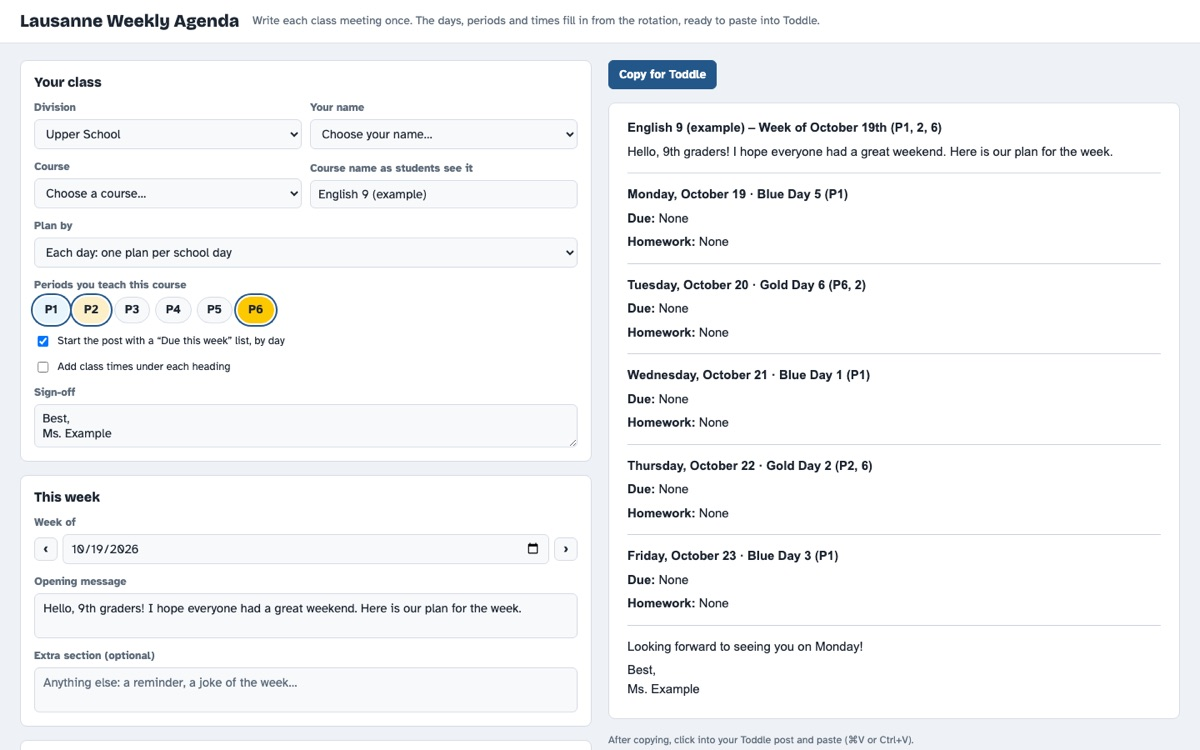
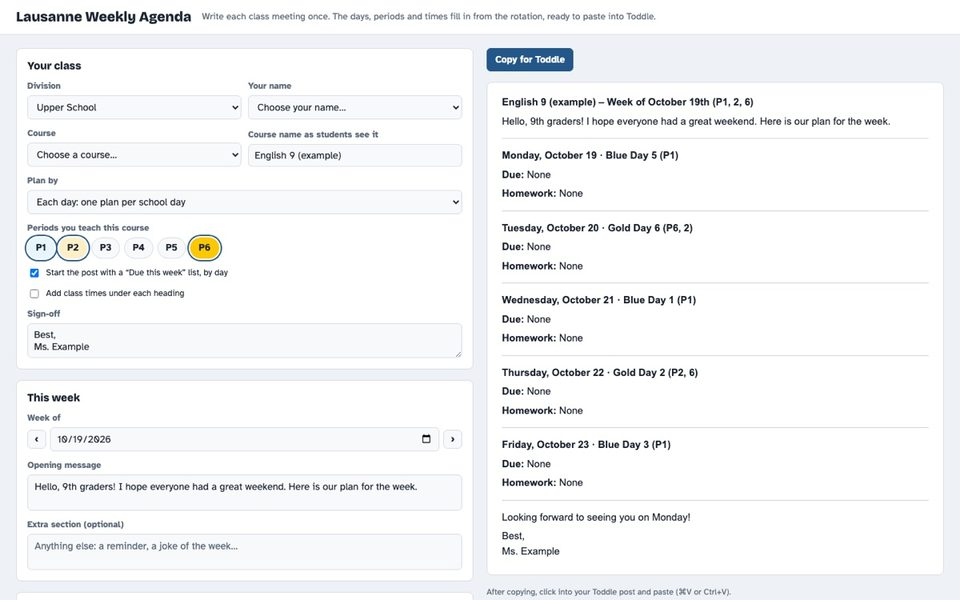
Add ideas section and make all preview images 960x600

diff --git a/index.html b/index.html
@@ -23,6 +23,68 @@
   </header>
 
   <main class="wrap">
+    <section class="ideas" aria-labelledby="ideas-heading">
+      <h2 id="ideas-heading">What you could make with Claude</h2>
+      <p class="ideas-intro">Claude can build printable pages, interactive sites and small tools from a plain description of what you need. A few places to start:</p>
+      <ul class="idea-grid">
+        <li class="idea">
+          <h3>Class resources</h3>
+          <ul>
+            <li>Worksheets and practice sets for this week's skill</li>
+            <li>Vocabulary cards, word walls and sorting activities</li>
+            <li>Reading passages on your topic at your students' level</li>
+            <li>Review games and exit tickets</li>
+          </ul>
+        </li>
+        <li class="idea">
+          <h3>Custom resources</h3>
+          <ul>
+            <li>The same lesson at two or three reading levels</li>
+            <li>Visual schedules, checklists and step-by-step cards</li>
+            <li>Choice boards and extension work for early finishers</li>
+            <li>Name-based or student-made pages like the name sheets below</li>
+          </ul>
+        </li>
+        <li class="idea">
+          <h3>Teacher tools</h3>
+          <ul>
+            <li>Calendars and planners that follow the Lausanne rotation</li>
+            <li>Rubric builders and grade conversion charts</li>
+            <li>Random group, partner and seating chart makers</li>
+            <li>Pages that turn an export into something you can print</li>
+          </ul>
+        </li>
+        <li class="idea">
+          <h3>Student sites and activities</h3>
+          <ul>
+            <li>Interactive practice with instant feedback</li>
+            <li>Simulations, like the pretend grocery store below</li>
+            <li>Research libraries with safe, readable sources</li>
+            <li>Step-by-step lab or project guides</li>
+          </ul>
+        </li>
+        <li class="idea">
+          <h3>Family communication</h3>
+          <ul>
+            <li>How-to handouts with numbered steps and screenshots</li>
+            <li>Newsletter and weekly update templates</li>
+            <li>Welcome packets and supply lists</li>
+            <li>Event and conference schedules</li>
+          </ul>
+        </li>
+        <li class="idea">
+          <h3>Clubs, teams and events</h3>
+          <ul>
+            <li>Season and practice plans</li>
+            <li>Slide decks with speaker notes</li>
+            <li>Sign-up sheets and rosters</li>
+            <li>Field trip and event checklists</li>
+          </ul>
+        </li>
+      </ul>
+    </section>
+
+    <h2 class="examples-heading">Built for Lausanne classrooms</h2>
     <ul id="cards" class="card-grid" aria-live="polite"></ul>
     <p id="load-error" class="load-error" hidden>The resource list could not be loaded. Please refresh the page.</p>
 

diff --git a/styles.css b/styles.css
@@ -98,10 +98,59 @@ h1 {
   background: var(--gold);
 }
 
+/* Ideas */
+.ideas { margin-top: 36px; }
+
+.ideas h2,
+.examples-heading {
+  margin: 0 0 8px;
+  font-size: 1.7rem;
+}
+
+.ideas-intro {
+  margin: 0 0 20px;
+  max-width: 62ch;
+  color: var(--muted);
+}
+
+.idea-grid {
+  list-style: none;
+  margin: 0;
+  padding: 0;
+  display: grid;
+  grid-template-columns: repeat(3, minmax(0, 1fr));
+  gap: 16px;
+}
+
+.idea {
+  padding: 16px 18px 14px;
+  background: var(--surface);
+  border: 1px solid var(--border);
+  border-top: 4px solid var(--gold);
+  border-radius: 10px;
+}
+
+.idea h3 {
+  margin: 0 0 8px;
+  font-size: 1.15rem;
+}
+
+.idea ul {
+  margin: 0;
+  padding-left: 18px;
+  font-size: 0.92rem;
+}
+
+.idea li + li { margin-top: 4px; }
+
+.idea li::marker { color: var(--muted); }
+
+.examples-heading { margin-top: 48px; }
+
 /* Cards */
 .card-grid {
   list-style: none;
-  margin: 32px 0 0;
+  margin: 20px 0 0;
   padding: 0;
   display: grid;
   grid-template-columns: repeat(3, minmax(0, 1fr));
@@ -109,12 +158,14 @@ h1 {
 }
 
 @media (max-width: 980px) {
-  .card-grid { grid-template-columns: repeat(2, minmax(0, 1fr)); }
+  .card-grid,
+  .idea-grid { grid-template-columns: repeat(2, minmax(0, 1fr)); }
 }
 
 @media (max-width: 640px) {
   .site-header { padding-top: 32px; }
   .card-grid { grid-template-columns: 1fr; gap: 20px; }
+  .idea-grid { grid-template-columns: 1fr; gap: 12px; }
 }
 
 .card {

diff --git a/README.md b/README.md
@@ -10,11 +10,11 @@ Plain HTML, CSS and JavaScript. No framework and no build step. `app.js` reads `
 
 | File | What it does |
 | --- | --- |
-| `index.html` | Page structure: header, card grid, closing section |
+| `index.html` | Page structure: header, ideas section, card grid, closing section. Edit the ideas list here. |
 | `styles.css` | Lausanne colors, fonts, layout, dark mode |
 | `app.js` | Loads `cards.json` and renders the cards |
 | `cards.json` | The list of cards. This is the only file you edit to change cards. |
-| `images/` | Preview images (JPEG, about 1200px wide) |
+| `images/` | Preview images (JPEG, all 960×600) |
 
 ## Card fields
 
@@ -44,7 +44,7 @@ Each card in `cards.json` looks like this:
 ## Add or replace a preview image
 
 1. Take a screenshot of the page (a wide browser window works best; the card shows the top of the image in a 16:10 frame).
-2. Save it as a JPEG about 1200px wide, named after the page, for example `toddle-notifications.jpg`.
+2. Save it as a JPEG, cropped or resized to exactly 960×600 so it matches the other previews, named after the page, for example `toddle-notifications.jpg`.
 3. On GitHub, open the `images` folder, choose **Add file > Upload files**, and upload it.
 4. In `cards.json`, set that card's `"image"` to `"images/toddle-notifications.jpg"` and commit.
 
